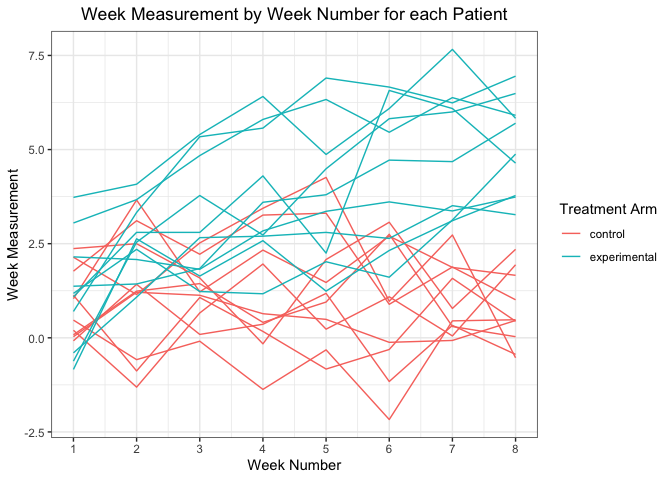
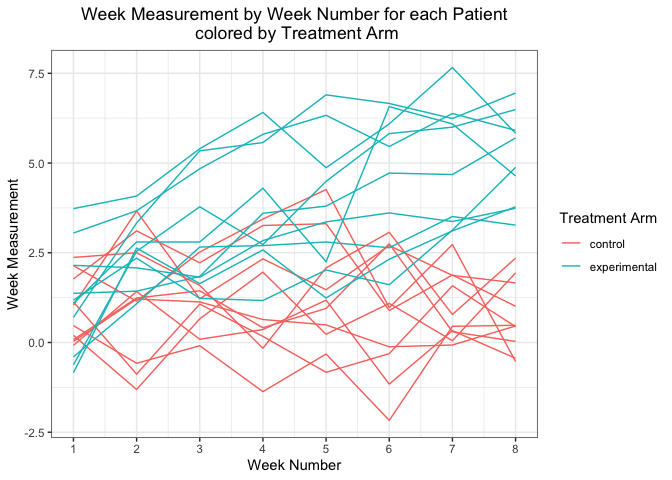
Made minor grammar and formatting edits to solution to problem two.

diff --git a/p8105_hw5_bpg2118.md b/p8105_hw5_bpg2118.md
@@ -122,15 +122,17 @@ city_state_prop_test %>%
 
 ## Problem 2
 
-Let’s do the following: \* Create a data frame with one column being a
-list of file names and a second column being a list column of data
-frames with each data frame being the corresponding read-in data from
-the file name. \* Unnest the list column of data frames.  
-\* Pivot the data so that week is in one column and the week measurement
-is in another column.  
-\* Create patient ID and treatment variables, as well as, a variable
-that combines the patient ID and treatment to uniquely identify each
-patient.
+Let’s do the following:
+
+-   Create a data frame with one column being a list of file names and a
+    second column being a list column of data frames with each data
+    frame being the corresponding read-in data from the file name.  
+-   Unnest the list column of data frames.  
+-   Pivot the data so that week is in one column and the week
+    measurement is in another column.  
+-   Create patient ID and treatment variables, as well as, a variable
+    that combines the patient ID and treatment to uniquely identify each
+    patient.
 
 ``` r
 # Create a data frame with a list of file names and list of patient data frames
@@ -161,11 +163,11 @@ longitudinal_df <- tibble(
 ```
 
 Now, that we have the data in a tidy format, let’s plot week
-measurements by week for each subject in the experiment. We can color by
+measurements for each subject in the experiment. We can color by
 treatment group to compare the two treatment groups.
 
 ``` r
-# Spaghetti plot: week measurement by week for each participant colored by
+# Spaghetti plot: measurement by week for each participant colored by
 # treatment group
 longitudinal_df %>%
   ggplot(aes(x = week, y = week_results, group = treatment_type_patient_id,
@@ -174,7 +176,7 @@ longitudinal_df %>%
   scale_x_continuous(breaks = 1:8) +
   theme_bw() +
   labs(
-    title = "Week Measurement by Week Number for each Patient",
+    title = "Week Measurement by Week Number for each Patient\n colored by Treatment Arm",
     x = "Week Number",
     y = "Week Measurement",
     color = "Treatment Arm"
@@ -183,6 +185,7 @@ longitudinal_df %>%
 ```
 
 ![](p8105_hw5_bpg2118_files/figure-gfm/unnamed-chunk-9-1.png)<!-- -->
+
 From the spaghetti plot, we see participants in the experimental
 treatment group tend to have higher weekly measurements than
 participants in the control treatment group.
